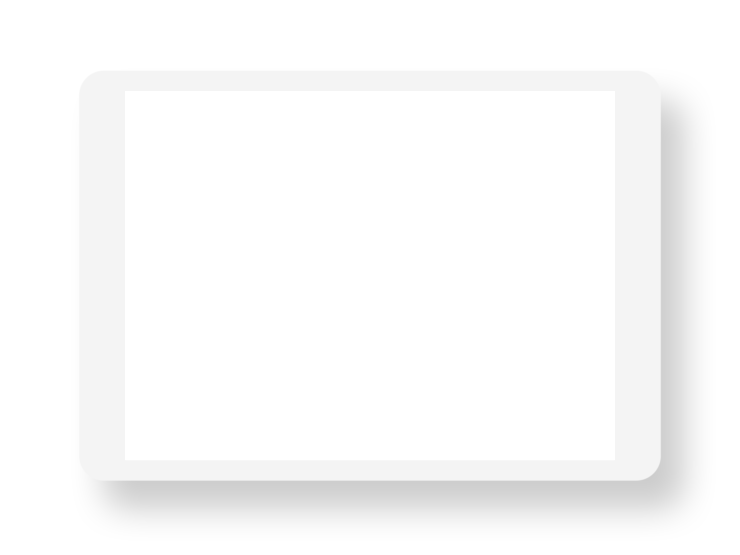
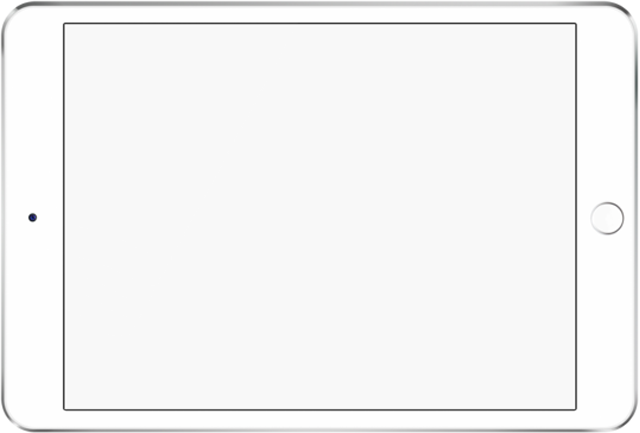
Added tablet video

Changed region(s): [[0.0, 0.0, 1.0, 1.0]]

diff --git a/static/css/index.css b/static/css/index.css
@@ -471,20 +471,26 @@ header nav ul span.relative::before {
 
 }
 /* Home  */
+.tablet_container,
 .iphone_container {
     position: relative;
-    max-width: 346px;
     margin: auto;
     z-index: 1;
 }
+.iphone_container {
+    max-width: 346px;
+}
+.tablet_container > img,
 .iphone_container > img {
     width: 100%;
 }
+.tablet_container.horizontal > img,
 .iphone_container.horizontal > img {
     transform: rotate(180deg);
 }
+.tablet_container div video,
 .iphone_container div video
- {
+{
     position: absolute;
     top: 10px;
     left: 10px;
@@ -494,6 +500,14 @@ header nav ul span.relative::before {
     background: black;
     z-index: -1;
 }
+.tablet_container div video {
+    top: 10px;
+    left: 7.5%;
+    width: calc(85%);
+    height: calc(100% - 30px);
+    border-radius: initial;
+}
+.tablet_container div img,
 .iphone_container div img {
     position: absolute;
     top: 50%;

diff --git a/components/dataDisplay/others/device.js b/components/dataDisplay/others/device.js
@@ -6,9 +6,9 @@ import Video from '../../../components/elements/video'
 
 
 const DeviseComp = (props) => {
-    const { src, title, autoplay } = props
+    const { src, title, autoplay, deviceType } = props
     return (
-        <div className={`iphone_container ${props.extendClass}`}>
+        <div className={`${deviceType == 'tablet' ? 'tablet_container' : 'iphone_container'} ${props.extendClass ? props.extendClass : ''}`}>
             <div>
                 {src.includes('.mp4') ?
                     <Video autoplay={autoplay} src={src} title={title} />
@@ -41,7 +41,7 @@ const IphoneComp = (props) => {
 }
 
 const TabletComp = (props) => (
-    <DeviseComp {...props}>
+    <DeviseComp {...props} deviceType='tablet'>
         <img src={WhiteTablet} />
     </DeviseComp>
 )

diff --git a/pages/video-influenceurs.js b/pages/video-influenceurs.js
@@ -56,8 +56,8 @@ const Index = () => {
 							</Grid>
 						</Grid>
 						<Grid item xs={12} sm={6} justify="center" alignItems="center" className='text-center'>
-							<Video src="../static/video/engaging_media.mp4" muted />
-							{/* <TabletComp deviceColor='black' src="../static/video/discover_our_offers.mp4" /> */}
+							{/* <Video src="../static/video/engaging_media.mp4" /> */}
+							<TabletComp src="../static/video/engaging_media.mp4" />
 						</Grid>
 					</Grid>
 				</div>
